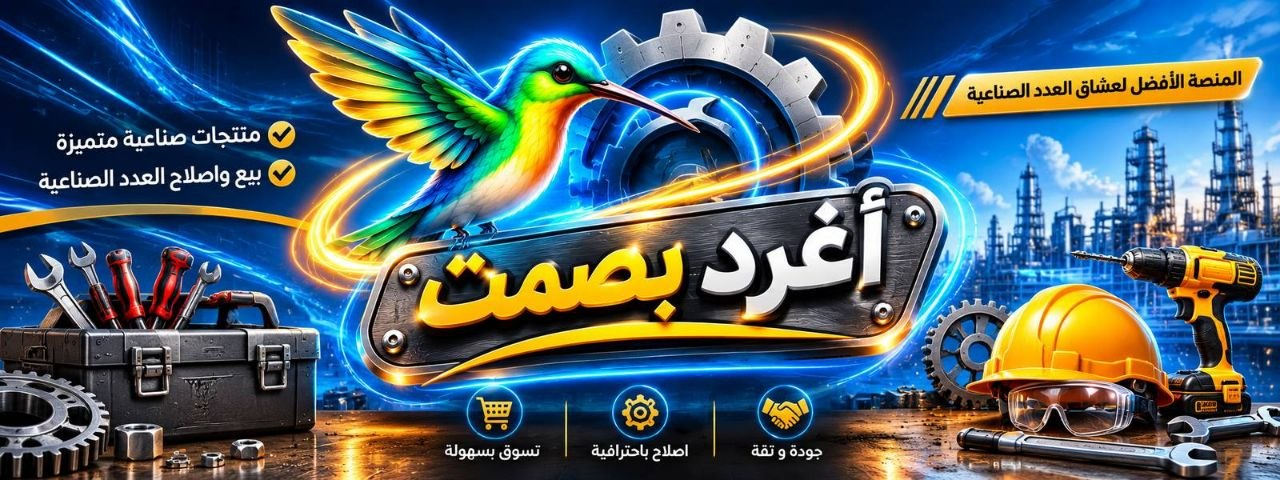
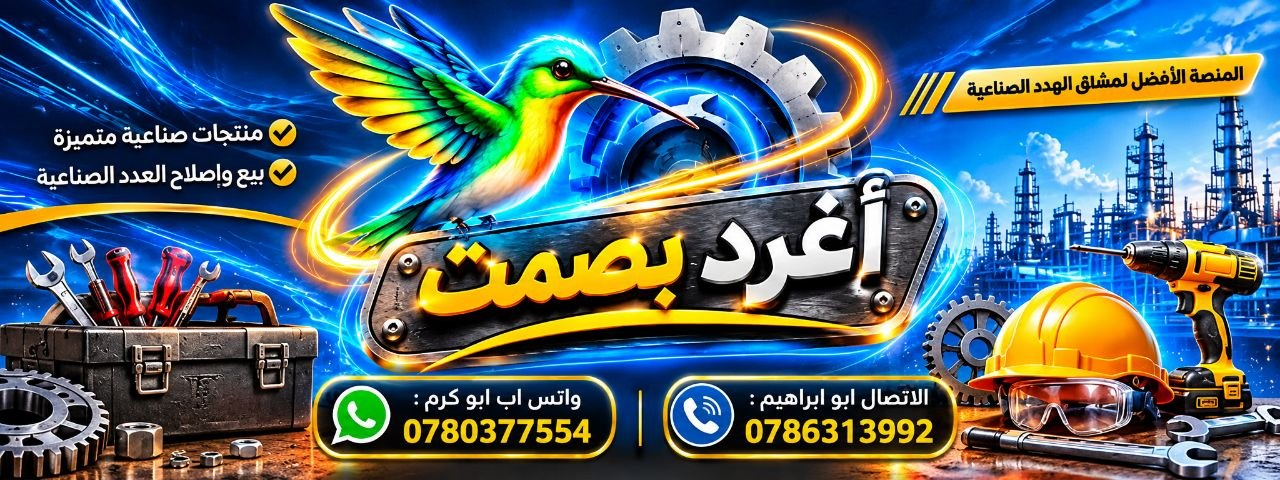
Add files via upload

diff --git a/index.html b/index.html
@@ -56,15 +56,18 @@ span.ph{display:block}.bd{position:absolute;top:8px;right:8px;background:var(--s
 #ts{position:fixed;bottom:76px;left:50%;transform:translateX(-50%);background:#1f2326;color:#fff;padding:9px 16px;border-radius:4px;opacity:0;pointer-events:none;transition:opacity .2s;z-index:10}#ts.on{opacity:1}
 .ci{display:flex;justify-content:space-between;align-items:center;gap:8px;border-bottom:1px solid #9aa2a855;padding:6px 0}
 #ft{margin-bottom:22px}#ft h2{border-right:6px solid var(--sun);padding-right:10px;margin:0 0 10px}
-.hero{background-size:cover;background-position:center;min-height:300px;display:flex;align-items:flex-end}
+.cover{display:block;width:100%;height:auto}
+.hero{padding-top:22px}
 .hero>div{width:100%}
 .hero h1{margin:0}.hero h1,.hero p{text-shadow:0 2px 8px #000a}
 .brand{display:flex;align-items:center;gap:14px;margin-bottom:6px}
+.brand img{display:none}
 .brand img{width:76px;height:76px;border-radius:16px;border:3px solid var(--sun);object-fit:cover;background:#000;flex:none}
-.hero{background-image:linear-gradient(rgba(31,35,38,.55),rgba(31,35,38,.92)),url(cover.jpg)}
+
 </style>
 </head>
 <body>
+<img class="cover" src="cover.jpg" alt="غلاف المتجر">
 <header class="hero"><div><div class="brand"><img src="icon-192.png" alt="شعار المتجر"><h1 id="sn">متجر العدد الصناعية</h1></div><p id="sd">عدد وأدوات صناعية — بيع وإصلاح</p>
  <div class="row"><button onclick="document.getElementById('q').scrollIntoView({behavior:'smooth',block:'center'})">تصفح المنتجات</button><button class="g" onclick="openRepair()">طلب إصلاح عدة</button></div>
  <div class="stat" id="stat"></div></div></header>
